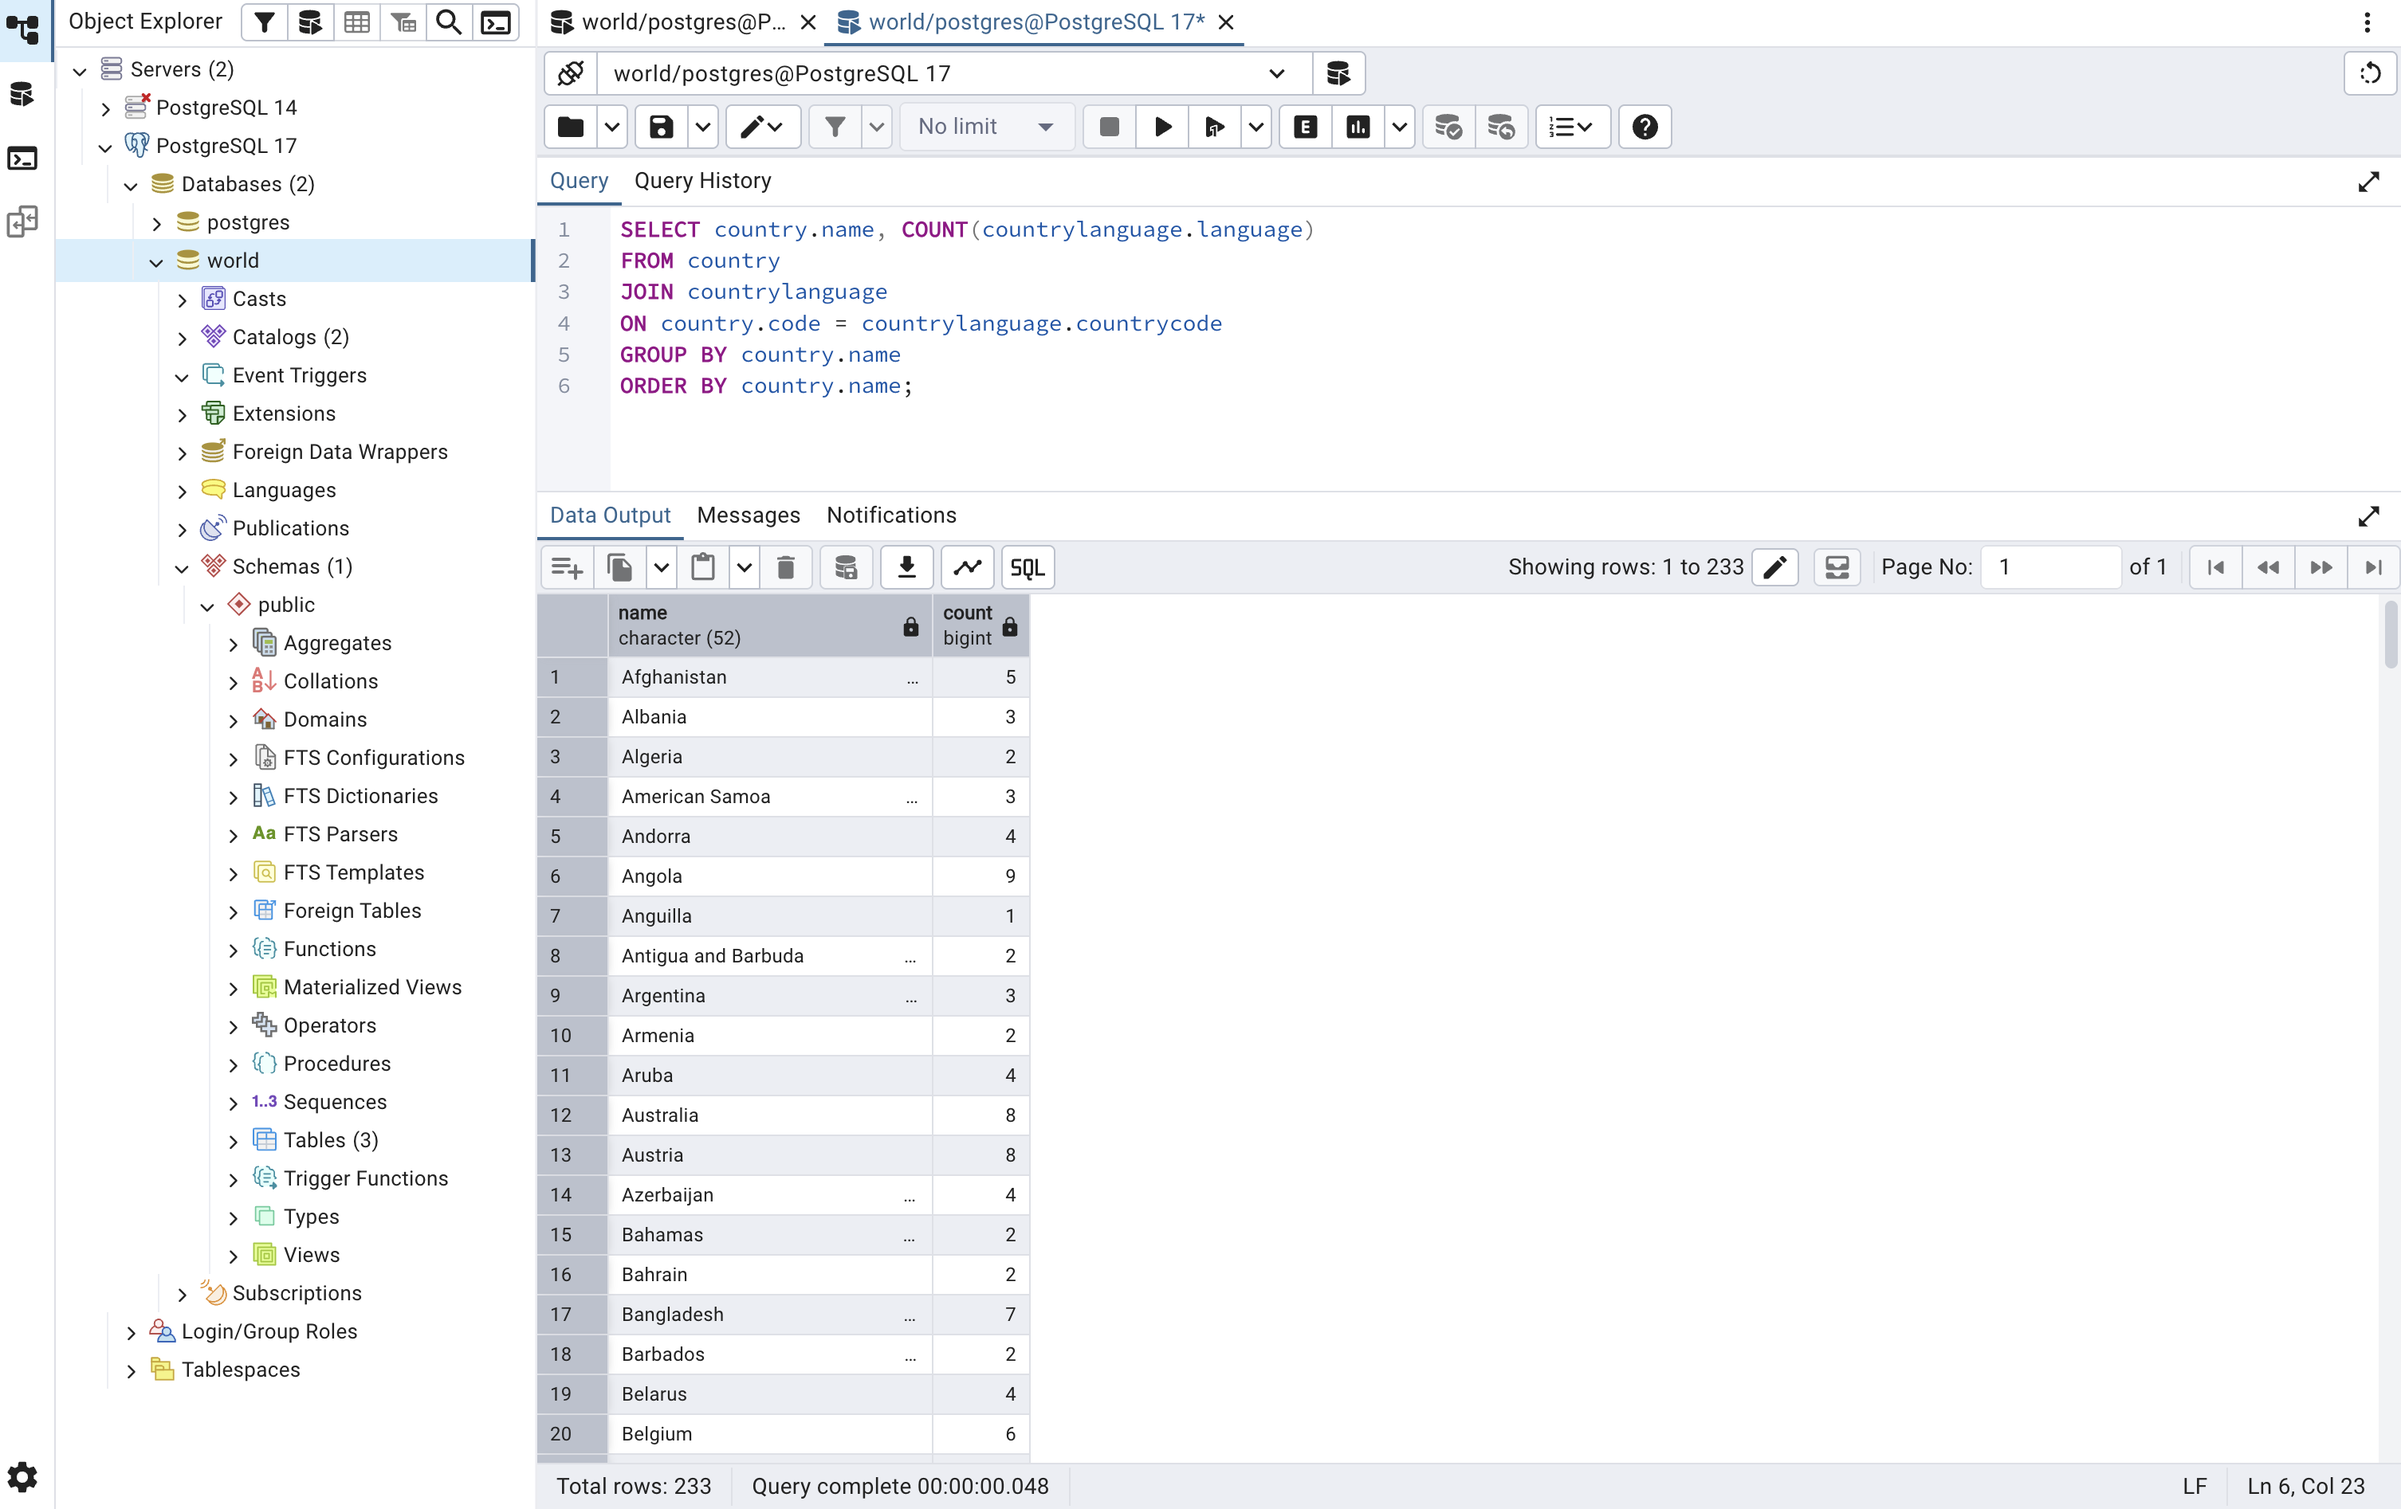
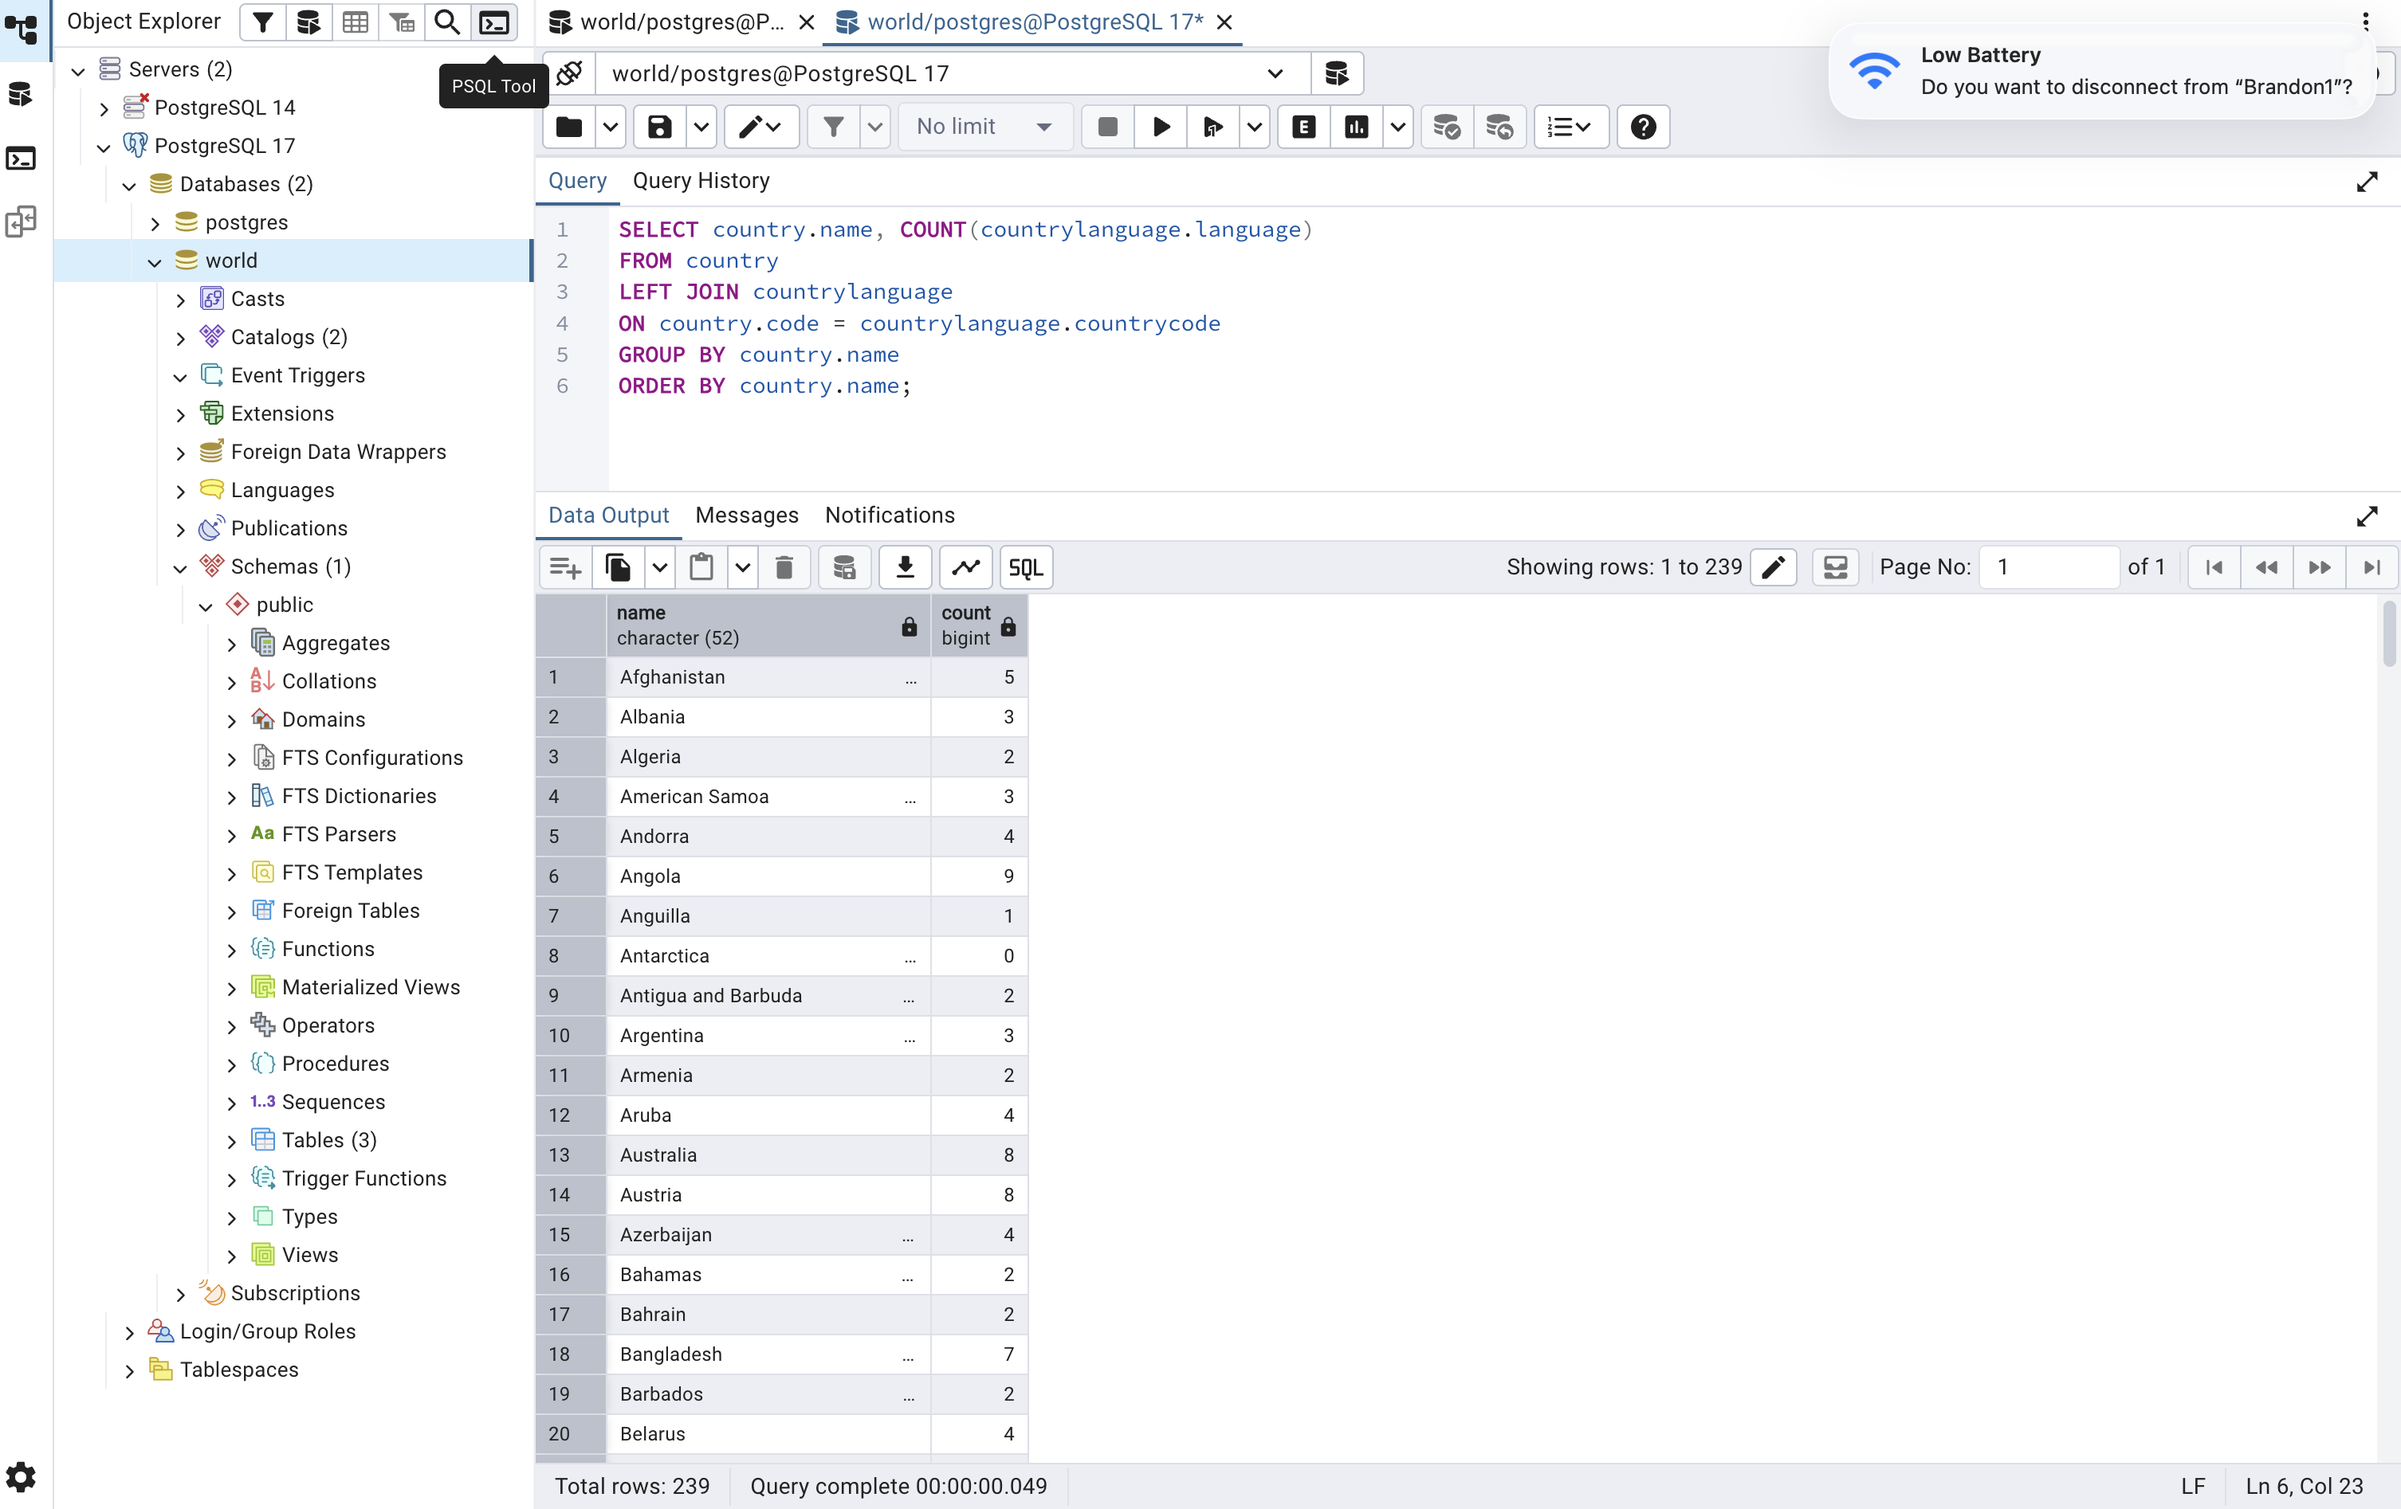
Completed exercise 2

diff --git a/exercises/exercise02.md b/exercises/exercise02.md
@@ -161,7 +161,7 @@ Be sure to **sort by country name**.
 ```sql
 SELECT country.name, COUNT(countrylanguage.language)
 FROM country
-JOIN countrylanguage
+LEFT JOIN countrylanguage
 ON country.code = countrylanguage.countrycode
 GROUP BY country.name
 ORDER BY country.name;
@@ -232,7 +232,9 @@ since some rows use that instead of actual data.
 ### SQL
 
 ```sql
--- Your SQL here
+SELECT name, district
+FROM city
+WHERE district LIKE CHR(8211) || '%';
 ```
 
 ### Screenshot
@@ -251,7 +253,10 @@ _Hint: The result should be approximately 0.4%._
 ### SQL
 
 ```sql
--- Your SQL here
+SELECT COUNT(*) * 100.0 / (SELECT COUNT(*) FROM city)
+AS missing_district_percentage
+FROM city
+WHERE district LIKE CHR(8211) || '%';
 ```
 
 ### Screenshot
